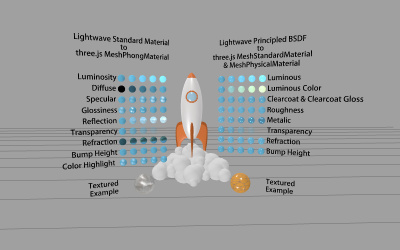
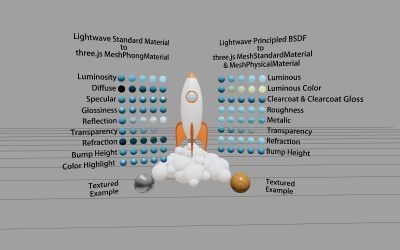
Examples: Updated webgl_loader_lwo.

Changed region(s): [[0.27, 0.28, 0.66, 0.784], [0.45, 0.28, 0.51, 0.42]]

diff --git a/examples/webgl_loader_lwo.html b/examples/webgl_loader_lwo.html
@@ -37,29 +37,12 @@
 				scene = new THREE.Scene();
 				scene.background = new THREE.Color( 0xa0a0a0 );
 
-				const ambientLight = new THREE.AmbientLight( 0xaaaaaa, 1.75 );
+				const ambientLight = new THREE.AmbientLight( 0x222222 );
 				scene.add( ambientLight );
 
-				const light1 = new THREE.DirectionalLight( 0xffffff, 1 );
+				const light1 = new THREE.DirectionalLight( 0x888888 );
 				light1.position.set( 0, 200, 100 );
-				light1.castShadow = true;
-				light1.shadow.camera.top = 180;
-				light1.shadow.camera.bottom = - 100;
-				light1.shadow.camera.left = - 120;
-				light1.shadow.camera.right = 120;
 				scene.add( light1 );
-
-				const light2 = new THREE.DirectionalLight( 0xffffff, 0.7 );
-				light2.position.set( - 100, 200, - 100 );
-				scene.add( light2 );
-
-				const light3 = new THREE.DirectionalLight( 0xffffff, 0.4 );
-				light3.position.set( 100, - 200, 100 );
-				scene.add( light3 );
-
-				const light4 = new THREE.DirectionalLight( 0xffffff, 1 );
-				light4.position.set( - 100, - 100, 100 );
-				scene.add( light4 );
 
 				const grid = new THREE.GridHelper( 200, 20, 0x000000, 0x000000 );
 				grid.material.opacity = 0.3;
@@ -85,21 +68,14 @@
 				renderer = new THREE.WebGLRenderer( { antialias: true } );
 				renderer.setPixelRatio( window.devicePixelRatio );
 				renderer.setSize( window.innerWidth, window.innerHeight );
-				renderer.shadowMap.enabled = true;
-				renderer.physicallyCorrectLights = true;
-				renderer.gammaFactor = 1.18;
+				renderer.setAnimationLoop( animation );
 				renderer.outputEncoding = THREE.sRGBEncoding;
+				renderer.toneMapping = THREE.ACESFilmicToneMapping;
 				container.appendChild( renderer.domElement );
 
 				const controls = new OrbitControls( camera, renderer.domElement );
 				controls.target.set( 1.33, 10, - 6.7 );
 				controls.update();
-
-				renderer.setAnimationLoop( function () {
-
-					renderer.render( scene, camera );
-
-				} );
 
 				window.addEventListener( 'resize', onWindowResize );
 
@@ -111,6 +87,12 @@
 				camera.updateProjectionMatrix();
 
 				renderer.setSize( window.innerWidth, window.innerHeight );
+
+			}
+
+			function animation() {
+
+				renderer.render( scene, camera );
 
 			}
 
